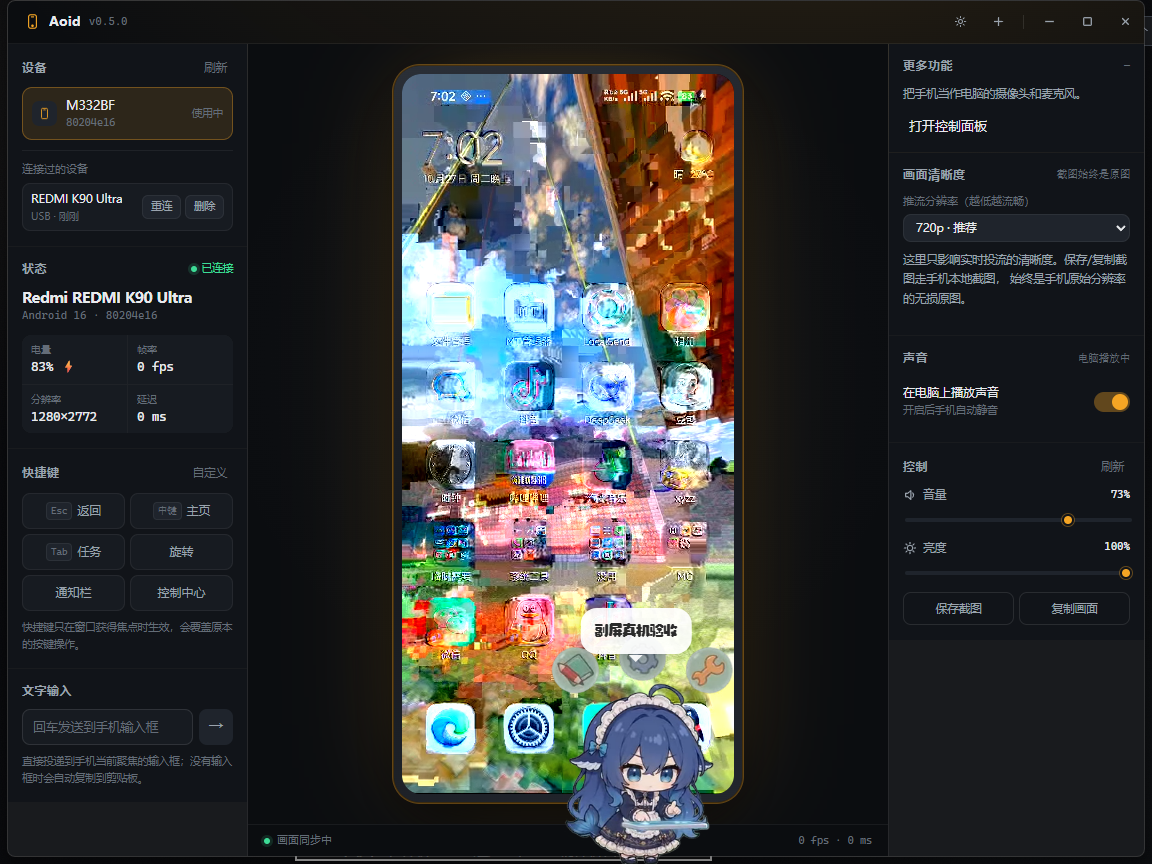
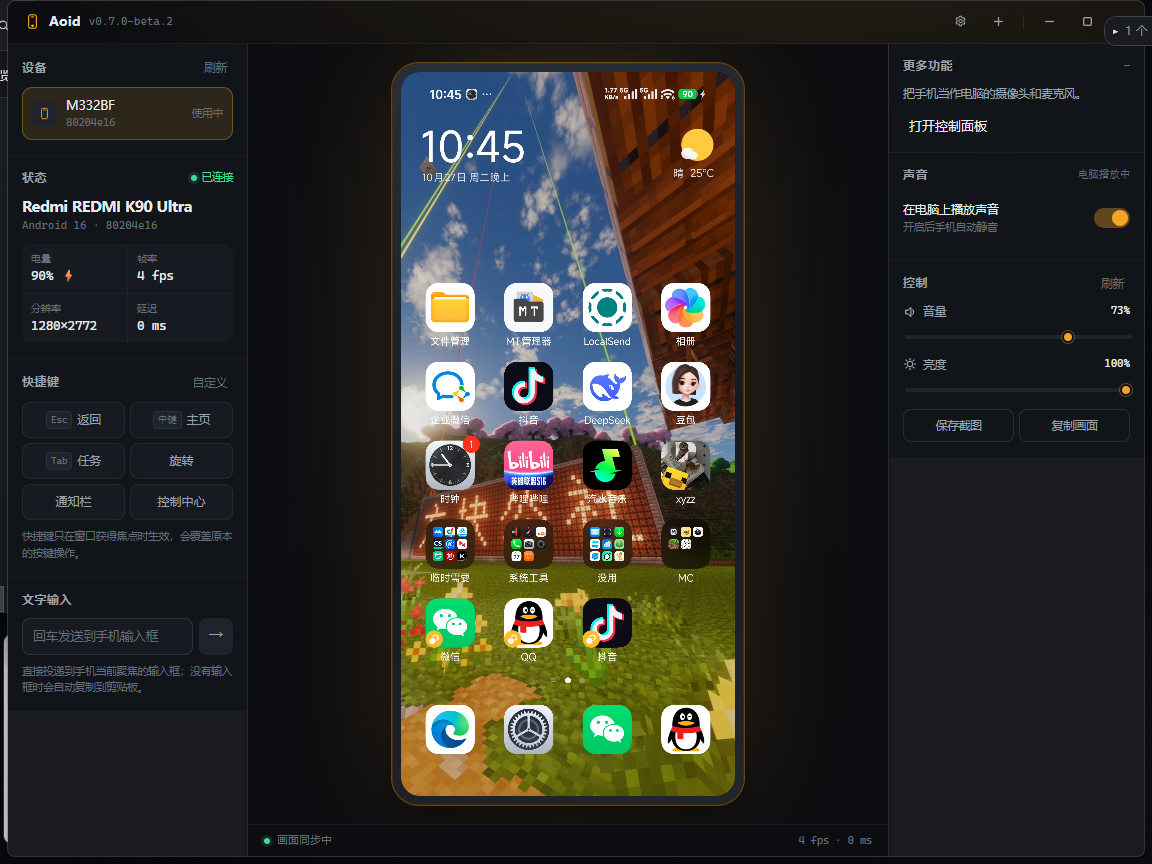
docs: 更新界面截图，补充联系邮箱，版权署名改为 l-xyzz
- docs/screenshot.png 换成 0.7.0-beta.2 实机截图
- SECURITY.md / CODE_OF_CONDUCT.md 填入联系邮箱
- LICENSE 版权署名改为 l-xyzz

diff --git a/CODE_OF_CONDUCT.md b/CODE_OF_CONDUCT.md
@@ -35,7 +35,7 @@
 ## 举报
 
 遇到滥用、骚扰或其他不可接受的行为，可通过
-[GitHub Issues](https://github.com/l-xyzz/Aoid/issues) 或项目主页公布的联系方式告知维护者。
+[GitHub Issues](https://github.com/l-xyzz/Aoid/issues) 或邮件 **l-xyzz@qq.com** 告知维护者。
 所有投诉都会被及时、公正地审阅与处理，并尊重举报者的隐私与安全。
 
 ## 处理原则

diff --git a/SECURITY.md b/SECURITY.md
@@ -6,7 +6,7 @@
 **请不要直接开公开 Issue**，改用下面任一方式私下告知：
 
 - 通过 GitHub 的 [Security Advisories](https://github.com/l-xyzz/Aoid/security/advisories/new)（推荐）
-- 或发邮件到项目主页上公布的地址
+- 或发邮件到 **l-xyzz@qq.com**
 
 请在报告里包含：
 
